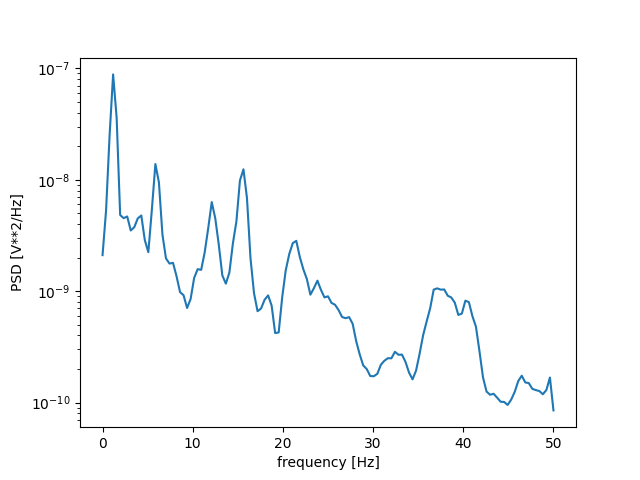
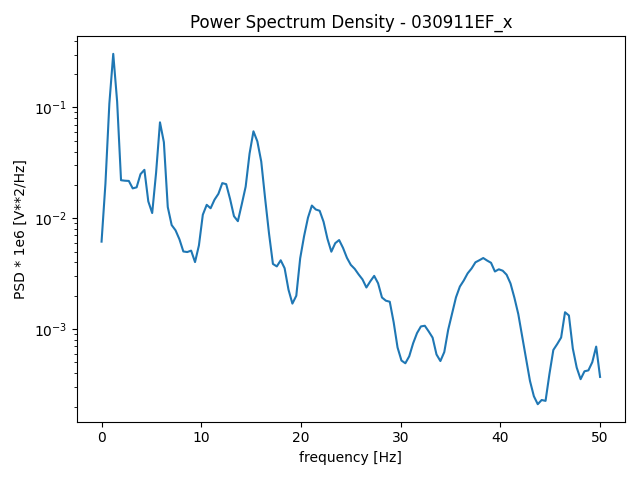
added tghe script for moving average plots for the traffic with clean code

diff --git a/Analysis/traffic.py b/Analysis/traffic.py
@@ -1,0 +1,316 @@
+import pandas as pd
+import matplotlib.pyplot as plt
+import numpy as np
+from datetime import datetime, timedelta
+import re
+import argparse
+
+def extract_time_from_datetime(datetime_str):
+    """Extract start time from the datetime string"""
+    match = re.search(r'(\d{1,2}:\d{2})\s*-\s*\d{1,2}:\d{2}', str(datetime_str))
+    if match:
+        return match.group(1)
+    return None
+
+def extract_date_from_datetime(datetime_str):
+    """Extract date from the datetime string"""
+    match = re.search(r'(\d{2}/\d{2}/\d{4})', str(datetime_str))
+    if match:
+        return match.group(1)
+    return None
+
+def time_to_minutes(time_str):
+    """Convert time string (HH:MM) to minutes from midnight"""
+    try:
+        hours, minutes = map(int, time_str.split(':'))
+        return hours * 60 + minutes
+    except:
+        return None
+
+def calculate_time_based_moving_average(df, time_window_minutes=60):
+    """
+    Calculate moving average based on time window
+    time_window_minutes: the time period for moving average (default 60 minutes = 1 hour)
+    """
+    # Convert time to minutes from midnight
+    df['TimeInMinutes'] = df['Time'].apply(time_to_minutes)
+    
+    # Calculate moving average based on time window
+    # Since data is in 15-minute intervals, calculate how many intervals fit in the window
+    intervals_in_window = time_window_minutes / 15
+    window_size = max(1, int(intervals_in_window))
+    
+    # Calculate rolling average
+    df['MovingAverage'] = df['VehicleCount'].rolling(
+        window=window_size, 
+        center=True, 
+        min_periods=1
+    ).mean()
+    
+    return df, window_size
+
+def load_and_process_data(file_path, sheet_name=0):
+    """Load Excel data and process it"""
+    # Read the Excel file
+    df = pd.read_excel(file_path, sheet_name=sheet_name, header=0)
+    
+    # Get the first two columns regardless of their names
+    df = df.iloc[:, :2]
+    df.columns = ['DateTime', 'VehicleCount']
+    
+    # Extract date and time
+    df['Date'] = df['DateTime'].apply(extract_date_from_datetime)
+    df['Time'] = df['DateTime'].apply(extract_time_from_datetime)
+    
+    # Remove rows with missing data
+    df = df.dropna(subset=['Date', 'Time', 'VehicleCount'])
+    
+    # Convert VehicleCount to numeric
+    df['VehicleCount'] = pd.to_numeric(df['VehicleCount'], errors='coerce')
+    df = df.dropna(subset=['VehicleCount'])
+    
+    return df
+
+def plot_moving_average_for_day(df, target_date, time_window_minutes=60, save_path=None):
+    """
+    Plot moving average for a specific day
+    
+    Parameters:
+    - df: DataFrame with transit data
+    - target_date: date to plot (format: 'DD/MM/YYYY')
+    - time_window_minutes: time period for moving average in minutes (default 60)
+    - save_path: path to save the plot (optional)
+    """
+    # Filter data for the target date
+    day_data = df[df['Date'] == target_date].copy()
+    
+    if len(day_data) == 0:
+        print(f"No data found for date: {target_date}")
+        return
+    
+    # Reset index for proper plotting
+    day_data = day_data.reset_index(drop=True)
+    
+    # Calculate time-based moving average
+    day_data, window_size = calculate_time_based_moving_average(
+        day_data, 
+        time_window_minutes
+    )
+    
+    # Create the plot
+    fig, ax = plt.subplots(figsize=(16, 7))
+    
+    # Plot original data
+    ax.plot(day_data.index, day_data['VehicleCount'], 
+            label='Original Data (15-min intervals)', 
+            color='#87CEEB', linewidth=1.5, marker='o', markersize=4, alpha=0.7)
+    
+    # Plot moving average
+    ax.plot(day_data.index, day_data['MovingAverage'], 
+            label=f'Moving Average ({time_window_minutes} minutes window)', 
+            color='#FF6347', linewidth=3, marker='s', markersize=5)
+    
+    # Customize the plot
+    ax.set_xlabel('Time of Day', fontsize=13, fontweight='bold')
+    ax.set_ylabel('Number of Vehicles (per 15 minutes)', fontsize=13, fontweight='bold')
+    ax.set_title(f'Vehicle Transit Moving Average Analysis\nDate: {target_date} | Time Window: {time_window_minutes} minutes', 
+                 fontsize=15, fontweight='bold', pad=20)
+    ax.legend(loc='upper right', fontsize=11, framealpha=0.9)
+    ax.grid(True, alpha=0.4, linestyle='--', linewidth=0.8)
+    
+    # Set x-axis labels to show times
+    step = max(1, len(day_data) // 20)  # Show approximately 20 labels
+    ax.set_xticks(day_data.index[::step])
+    ax.set_xticklabels(day_data['Time'].iloc[::step], rotation=45, ha='right', fontsize=10)
+    
+    # Add statistics box
+    stats_text = f'Statistics:\n'
+    stats_text += f'Mean: {day_data["VehicleCount"].mean():.1f}\n'
+    stats_text += f'Max: {day_data["VehicleCount"].max():.0f}\n'
+    stats_text += f'Min: {day_data["VehicleCount"].min():.0f}\n'
+    stats_text += f'Std Dev: {day_data["VehicleCount"].std():.1f}'
+    
+    ax.text(0.02, 0.98, stats_text, transform=ax.transAxes,
+            fontsize=10, verticalalignment='top',
+            bbox=dict(boxstyle='round', facecolor='wheat', alpha=0.8))
+    
+    plt.tight_layout()
+    
+    # Save or show the plot
+    if save_path:
+        plt.savefig(save_path, dpi=300, bbox_inches='tight')
+        print(f"✓ Plot saved to: {save_path}")
+    else:
+        plt.show()
+    
+    # Print detailed statistics
+    print(f"\n{'='*60}")
+    print(f"ANALYSIS SUMMARY FOR {target_date}")
+    print(f"{'='*60}")
+    print(f"Time Window for Moving Average: {time_window_minutes} minutes ({window_size} intervals)")
+    print(f"Total 15-minute intervals: {len(day_data)}")
+    print(f"Time range: {day_data['Time'].iloc[0]} to {day_data['Time'].iloc[-1]}")
+    print(f"\nVehicle Count Statistics:")
+    print(f"  Average vehicles per 15-min: {day_data['VehicleCount'].mean():.2f}")
+    print(f"  Maximum vehicles: {day_data['VehicleCount'].max():.0f} (at {day_data.loc[day_data['VehicleCount'].idxmax(), 'Time']})")
+    print(f"  Minimum vehicles: {day_data['VehicleCount'].min():.0f} (at {day_data.loc[day_data['VehicleCount'].idxmin(), 'Time']})")
+    print(f"  Standard deviation: {day_data['VehicleCount'].std():.2f}")
+    print(f"  Total vehicles for the day: {day_data['VehicleCount'].sum():.0f}")
+    print(f"{'='*60}\n")
+    
+    return day_data
+
+def plot_multiple_time_windows(df, target_date, time_windows=[30, 60, 120], save_path=None):
+    """
+    Plot moving averages with different time windows for comparison
+    
+    Parameters:
+    - df: DataFrame with transit data
+    - target_date: date to plot
+    - time_windows: list of time windows in minutes to compare
+    - save_path: path to save the plot
+    """
+    # Filter data for the target date
+    day_data = df[df['Date'] == target_date].copy().reset_index(drop=True)
+    
+    if len(day_data) == 0:
+        print(f"No data found for date: {target_date}")
+        return
+    
+    # Create the plot
+    fig, ax = plt.subplots(figsize=(16, 8))
+    
+    # Plot original data
+    ax.plot(day_data.index, day_data['VehicleCount'], 
+            label='Original Data', color='lightgray', 
+            linewidth=1, marker='o', markersize=3, alpha=0.5)
+    
+    # Define colors for different windows
+    colors = ['#FF6347', '#4169E1', '#32CD32', '#FF8C00', '#9370DB']
+    
+    # Plot moving averages for different time windows
+    for idx, time_window in enumerate(time_windows):
+        temp_data = day_data.copy()
+        temp_data, _ = calculate_time_based_moving_average(temp_data, time_window)
+        
+        ax.plot(temp_data.index, temp_data['MovingAverage'], 
+                label=f'{time_window} min MA', 
+                color=colors[idx % len(colors)], 
+                linewidth=2.5, marker='s', markersize=4)
+    
+    # Customize the plot
+    ax.set_xlabel('Time of Day', fontsize=13, fontweight='bold')
+    ax.set_ylabel('Number of Vehicles', fontsize=13, fontweight='bold')
+    ax.set_title(f'Comparison of Moving Average Time Windows\nDate: {target_date}', 
+                 fontsize=15, fontweight='bold', pad=20)
+    ax.legend(loc='upper right', fontsize=10, framealpha=0.9)
+    ax.grid(True, alpha=0.3, linestyle='--')
+    
+    # Set x-axis labels
+    step = max(1, len(day_data) // 20)
+    ax.set_xticks(day_data.index[::step])
+    ax.set_xticklabels(day_data['Time'].iloc[::step], rotation=45, ha='right', fontsize=10)
+    
+    plt.tight_layout()
+    
+    if save_path:
+        plt.savefig(save_path, dpi=300, bbox_inches='tight')
+        print(f"✓ Comparison plot saved to: {save_path}")
+    else:
+        plt.show()
+
+def main():
+    parser = argparse.ArgumentParser(description="moving average plots for a given day")
+    parser.add_argument('--path', type=str, required=True, help="Path to file")
+    parser.add_argument('--date', type=str, required=True, help="target date")
+    args = parser.parse_args()
+
+    file_path = args.path
+    target_date = args.date
+
+    """Main function to run the analysis"""
+    print("="*60)
+    print("VEHICLE TRANSIT MOVING AVERAGE ANALYSIS")
+    print("="*60)
+    
+    # File path - UPDATE THIS WITH YOUR EXCEL FILE PATH
+    #file_path = '/Users/thomas/Data/7_AID webcam data/Marzo/transiti.xlsx'  # Change this to your file path
+    
+    # Load and process data
+    print("\nLoading data...")
+    try:
+        df = load_and_process_data(file_path)
+    except Exception as e:
+        print(f"Error loading file: {e}")
+        print("\nPlease ensure:")
+        print("  1. The file path is correct")
+        print("  2. The file exists")
+        print("  3. The file has the correct format (2 columns)")
+        return
+    
+    print(f"✓ Data loaded successfully!")
+    print(f"\n Dataset Summary:")
+    print(f"  Total records: {len(df)}")
+    print(f"  Date range: {df['Date'].min()} to {df['Date'].max()}")
+    print(f"\nAvailable dates:")
+    for date in sorted(df['Date'].unique()):
+        count = len(df[df['Date'] == date])
+        print(f"    {date}: {count} records")
+    
+    # ========================
+    # CONFIGURATION PARAMETERS
+    # ========================
+    
+    # Set your target date here
+    #target_date = '01/03/2025'  # Change to your desired date
+    
+    # Set your time window for moving average (in minutes)
+    time_window_minutes = 60  # Change this value (e.g., 30, 45, 60, 90, 120)
+    
+    print(f"\n{'='*60}")
+    print(f"ANALYSIS CONFIGURATION")
+    print(f"{'='*60}")
+    
+    print(f"Target Date: {target_date}")
+    print(f"Moving Average Time Window: {time_window_minutes} minutes")
+    print(f"{'='*60}")
+    
+    # Plot for specific date with specific time window
+    print(f"\n Generating moving average plot...")
+    plot_moving_average_for_day(
+        df, 
+        target_date, 
+        time_window_minutes=time_window_minutes,
+        save_path=f'graphs/transit_ma_{target_date.replace("/", "_")}_{time_window_minutes}min.png'
+    )
+    
+    # Plot comparison with multiple time windows
+    print(f"\nGenerating comparison plot with multiple time windows...")
+    plot_multiple_time_windows(
+        df,
+        target_date,
+        time_windows=[30, 60, 120],  # Compare 30min, 60min, and 120min windows
+        save_path=f'graphs/transit_ma_comparison_{target_date.replace("/", "_")}.png'
+    )
+    
+    # Interactive mode
+    print(f"\n{'='*60}")
+    print("INTERACTIVE MODE")
+    print(f"{'='*60}")
+    user_input = input("\nWould you like to analyze another date? (y/n): ").strip().lower()
+    
+    if user_input == 'y':
+        user_date = input("Enter date (DD/MM/YYYY): ").strip()
+        user_window = input("Enter time window in minutes (e.g., 30, 60, 120): ").strip()
+        
+        try:
+            time_window = int(user_window)
+            plot_moving_average_for_day(df, user_date, time_window_minutes=time_window)
+        except ValueError:
+            print("Invalid time window. Using default 60 minutes.")
+            plot_moving_average_for_day(df, user_date, time_window_minutes=60)
+    
+    print("\n✓ Analysis complete!")
+
+if __name__ == "__main__":
+    main()

diff --git a/Analysis/spectogram.py b/Analysis/spectogram.py
@@ -44,7 +44,7 @@ def spectogram(df, sensor_column):
     start_time = df["time"].iloc[0]
     end_time = df["time"].iloc[-1]
     plt.suptitle(f"Spectrogram of {sensor_column}\nStart: {start_time} | End: {end_time}")
-    plt.savefig("spectrogram.png", dpi=300, bbox_inches="tight")
+    plt.savefig("graphs/spectrogram.png", dpi=300, bbox_inches="tight")
     plt.title(f"Spectrogram of {sensor_column}")
     plt.show()
 
@@ -68,24 +68,42 @@ def fft_spectrum(df, sensor_column):
     plt.title(f'FFT Spectrum of {sensor_column}')
     plt.legend()
     plt.tight_layout()
-    plt.savefig('fft_spectrum.png')
+    plt.savefig('graphs/fft_spectrum.png')
     plt.show()
 
 
 def power_spectrum(df, sensor_column):
+    #fs-frequency bins, pxx_den -power at each frequency  with the unit of v2/hz
     x = df[f'{sensor_column}']
     fs = 100
 
-    f, Pxx_den = signal.welch(x, fs, nperseg=256)
-    plt.semilogy(f, Pxx_den)
-    #plt.ylim([0.5e-3, 1])
+    # Welch method for PSD estimation (more averaging = smoother)
+    f, Pxx = signal.welch(
+        x, 
+        fs=fs, 
+        nperseg=256,
+        scaling= 'density'       # use ~10 sec window for good averaging      # 50% overlap    # gives units of V²/Hz (PSD)
+    )
+
+    # Convert to micro units if needed (optional)
+    Pxx = Pxx * 1e6
+
+    # Focus on the most informative frequency range (0–7 Hz)
+    freq_limit = 50
+    mask = f <= freq_limit
+    f, Pxx = f[mask], Pxx[mask]
+    plt.semilogy(f, Pxx)
+    plt.title(f"Power Spectrum Density - {sensor_column}")
     plt.xlabel('frequency [Hz]')
-    plt.ylabel('PSD [V**2/Hz]')
-    plt.savefig('power_spectrum.png')
+    plt.ylabel('PSD * 1e6 [V**2/Hz]') # 'y-PSD' should be scaled to *10e-6 
+    #plt.legend()
+    #plt.grid(True, ls='--', alpha=0.6)
+    plt.tight_layout()
+    plt.savefig('graphs/power_spectrum.png')
     plt.show()
 
 
-### ex to run the script python3 spectogram.py --path /Users/thomas/Data/20250212/csv_acc/M001_2025-02-12_02-00-00_gg-87_int-3_th.csv --sensor 030911EF_x
+### ex to run the script--->  python3 spectogram.py --path /Users/thomas/Data/Data_sensors/20250303/M001_2025-03-03_00-00-00_gg-108_int-1_th.csv --sensor 030911EF_x                               
 def main():
     parser = argparse.ArgumentParser(description="create a spectogram, using sensor data using for specific columns")
     parser.add_argument('--path', type=str, required=True, help="Path to file")
